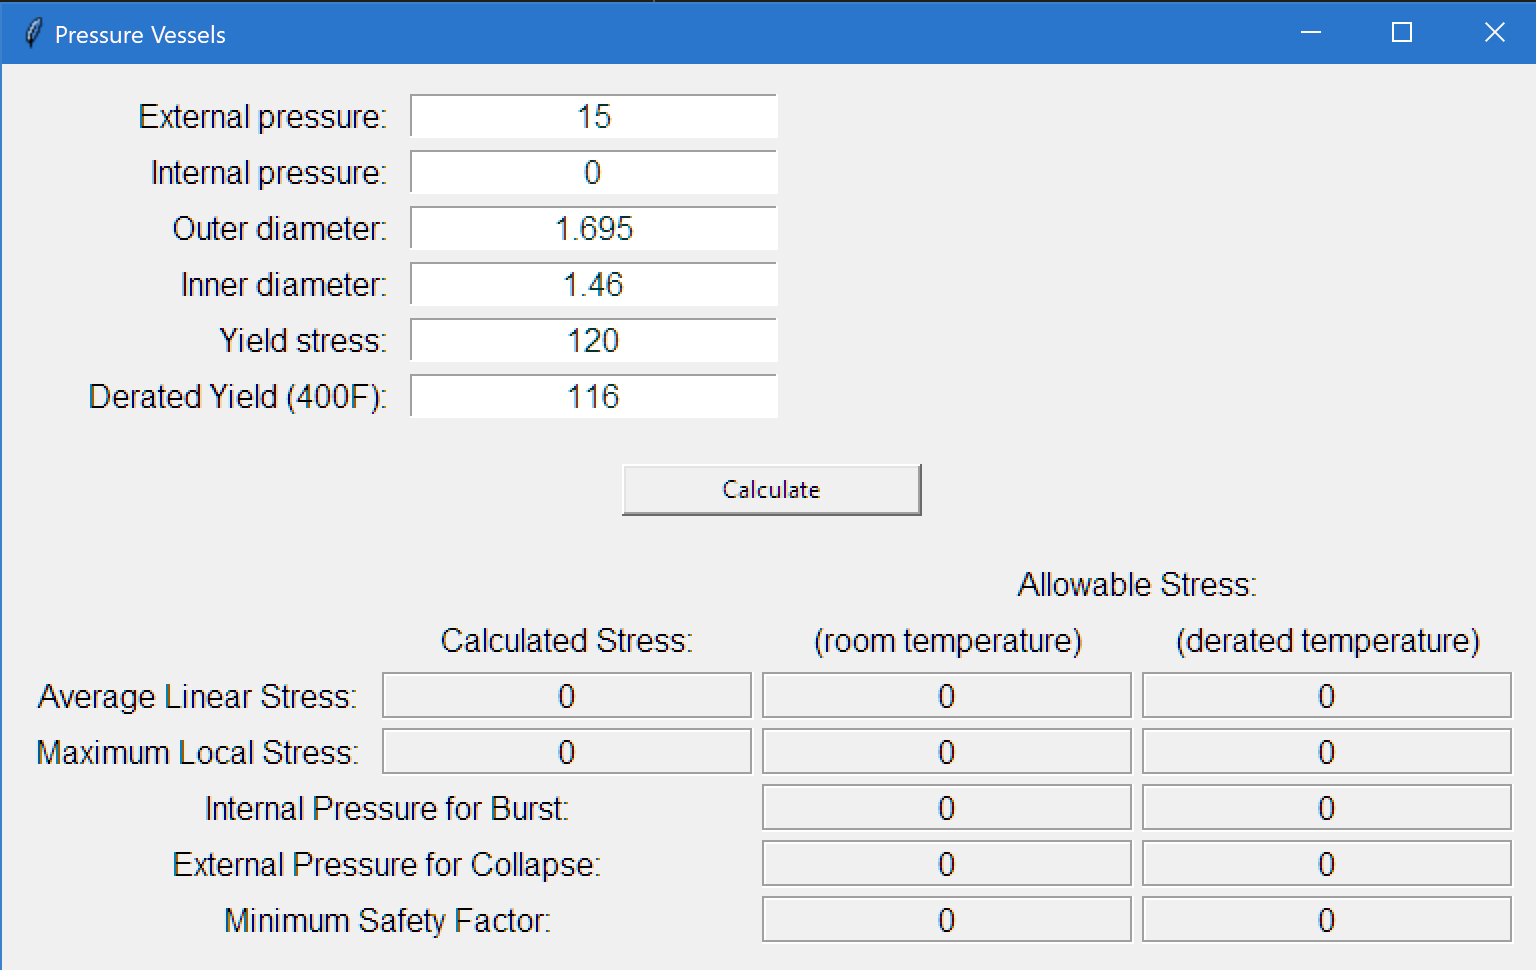
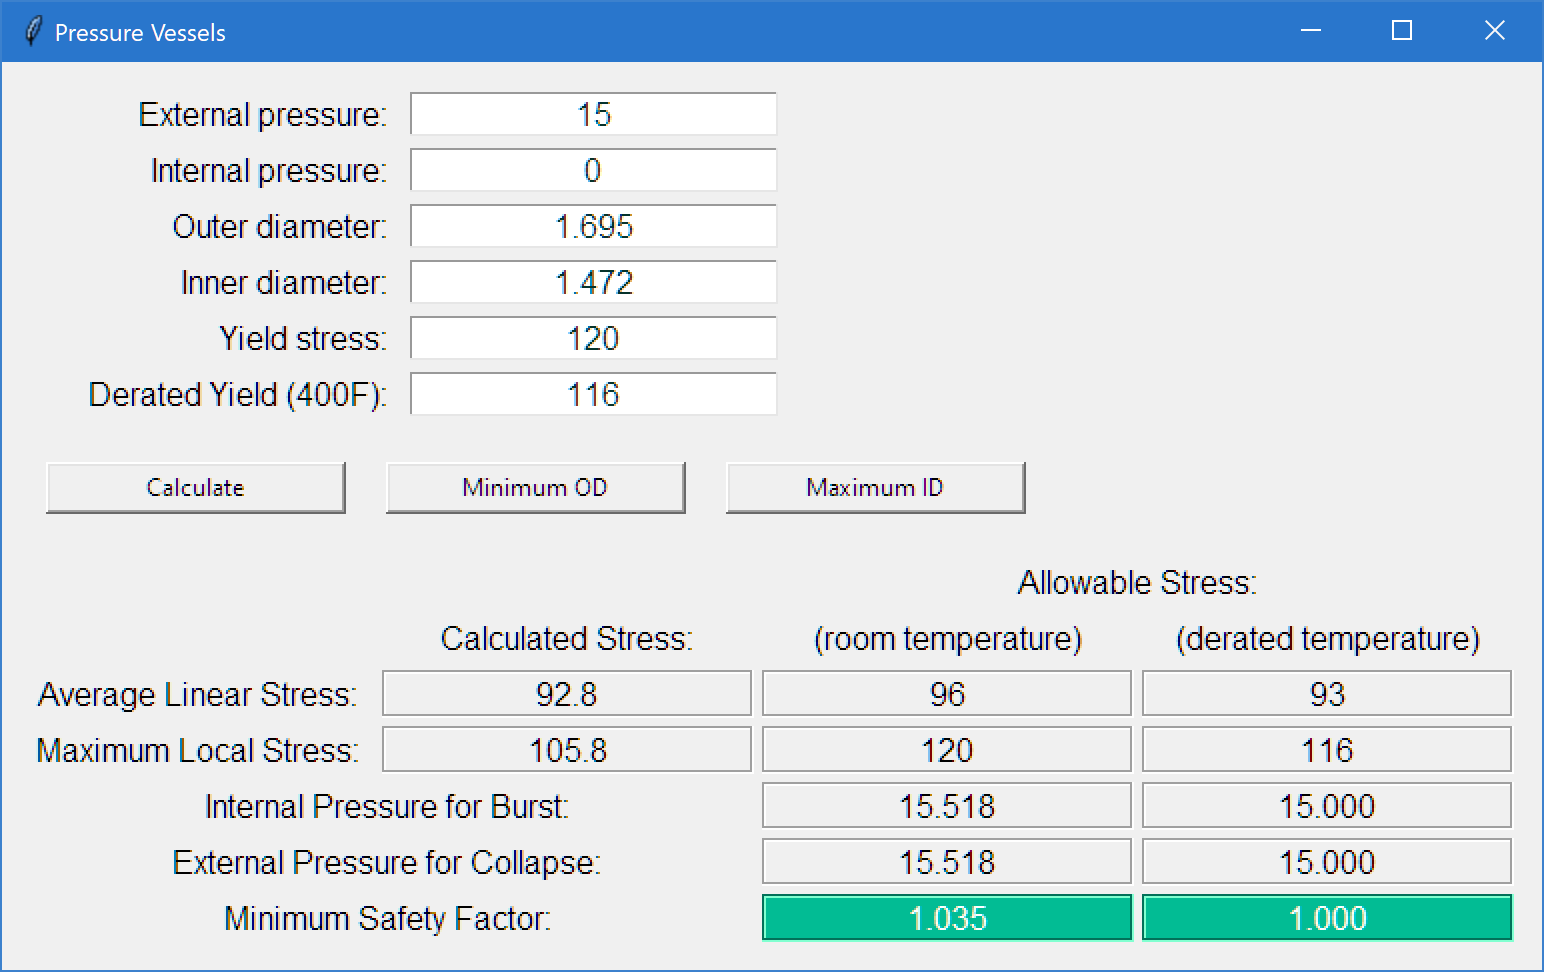
Add maximize_ID button and updated screenshot

diff --git a/pressurevessels/gui.py b/pressurevessels/gui.py
@@ -48,11 +48,15 @@ class PV_GUI(tk.Frame):
         # Insert calculate button
         calc_button = tk.Button(buttonrowframe, text='Calculate', width=20,
                                 command=self.calculate_button_command)
-        calc_button.pack(side=tk.LEFT)
+        calc_button.pack(side=tk.LEFT, padx=10)
         # Insert button for minimize_OD
         minimizeOD_button = tk.Button(buttonrowframe, text='Minimum OD',
                                       width=20, command=self.minimize_OD)
-        minimizeOD_button.pack(side=tk.LEFT)
+        minimizeOD_button.pack(side=tk.LEFT, padx=10)
+        # Insert button for minimize_OD
+        maximizeID_button = tk.Button(buttonrowframe, text='Maximum ID',
+                                      width=20, command=self.maximize_ID)
+        maximizeID_button.pack(side=tk.LEFT, padx=10)
         # Grid the buttons
         buttonrowframe.grid(row=1, column=0, columnspan=2, padx=10, pady=10,
                             sticky='nsew')
@@ -239,6 +243,22 @@ class PV_GUI(tk.Frame):
         new_OD = self.vessel.OD
         self.ent['Outer diameter'].delete(0, tk.END)
         self.ent['Outer diameter'].insert(0, f'{new_OD:.3f}')
+        # Update the results table with the calculated values
+        self.update_results()
+
+    def maximize_ID(self):
+        ''' Find the maximum ID with safety factor >= 1. 
+        
+        Uses the corresponding vessel method.'''
+        # Get the inputs from the entry boxes and calculate
+        self.get_entryvalues()
+        self.vessel.calculate()
+        # Call the vessel method
+        self.vessel.minimize_ID()
+        # Change the OD entrybox to show the new OD
+        new_ID = self.vessel.ID
+        self.ent['Inner diameter'].delete(0, tk.END)
+        self.ent['Inner diameter'].insert(0, f'{new_ID:.3f}')
         # Update the results table with the calculated values
         self.update_results()
 

diff --git a/pressurevessels/PressureVessels.py b/pressurevessels/PressureVessels.py
@@ -169,7 +169,7 @@ class Vessel():
         a = self.ID+0.001
         b = self.OD + 2*new_thickness
         # Until a desired accuracy is reached 
-        while abs(b - a) >= 0.0001:
+        while abs(b - a) >= 0.00001:
             # Get SF for each value of OD and subtract 1.00
             SF_a = self._change_with_SF(OD=a) - 1.0
             SF_b = self._change_with_SF(OD=b) - 1.0
